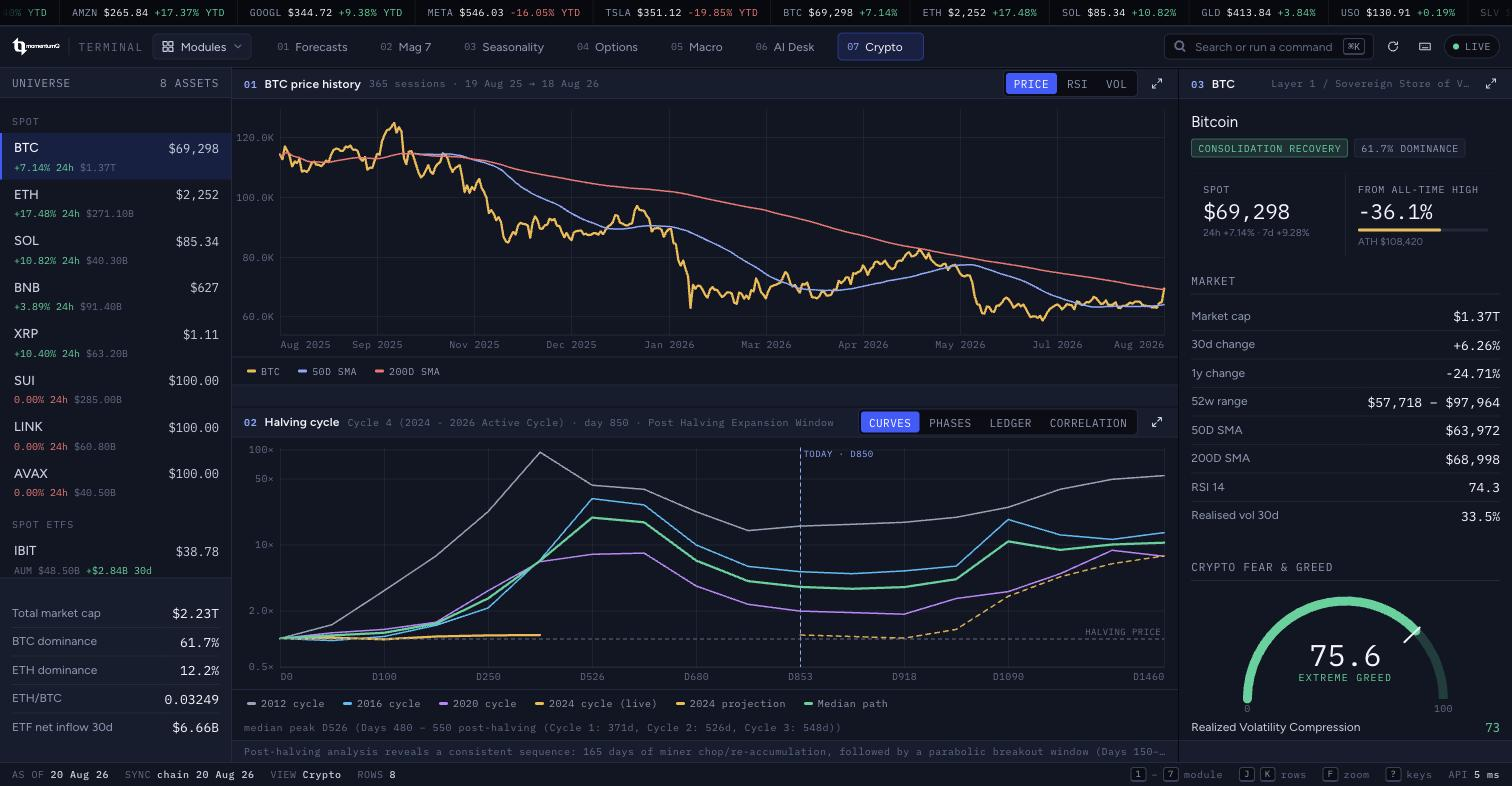
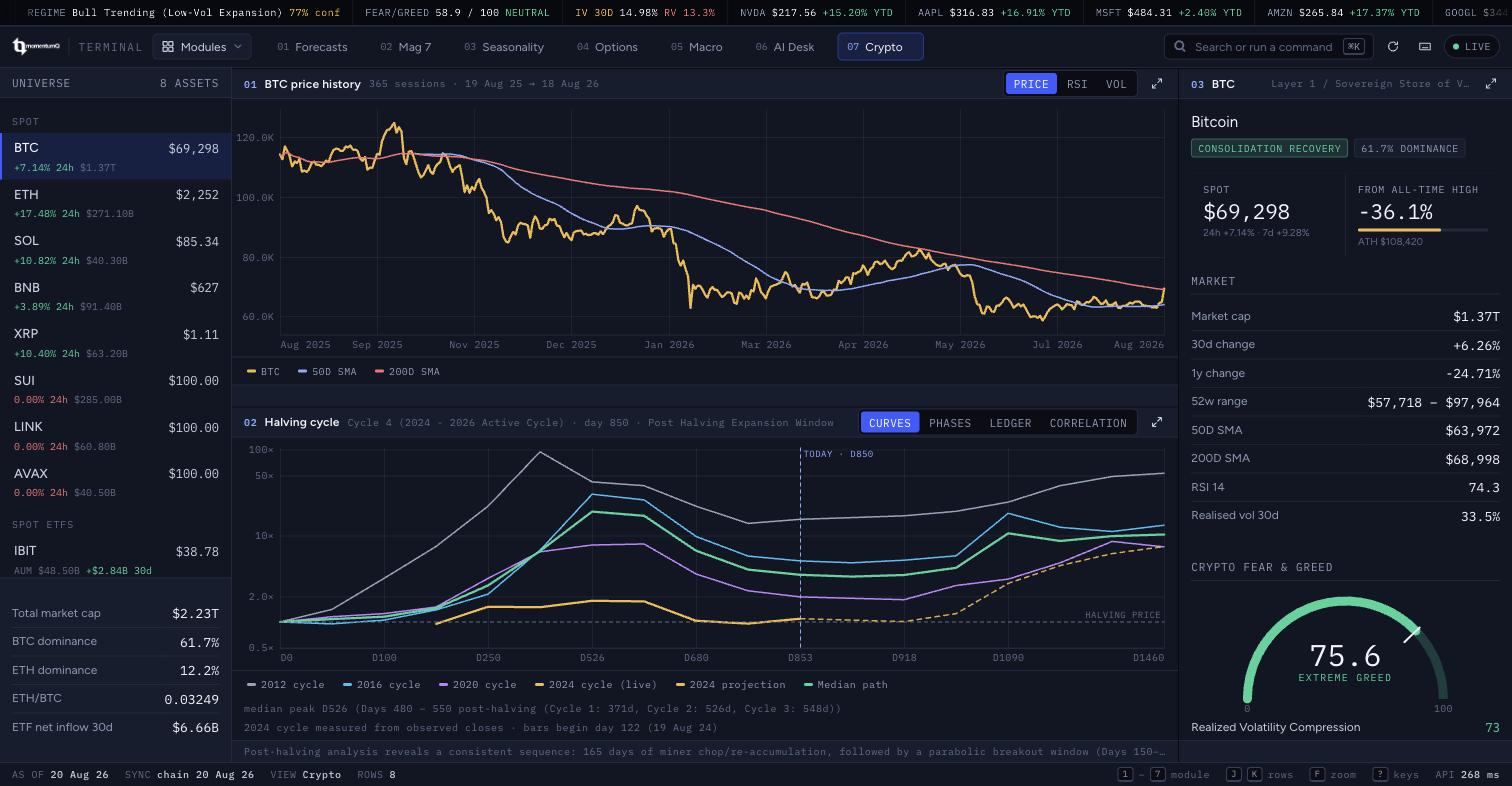
fix(crypto): measure the live halving cycle instead of asserting it
The 2024 cycle curve broke off around day 330 and did not reappear until
today's marker at day 853, leaving a ~500-day hole in the middle of a cycle
that has already happened. The chart was drawing the data faithfully; the data
was wrong.

cycle_curves was a hardcoded literal table. Only the current-position multiple
was computed. For the live cycle it carried values for the first year and
`None` for days 526, 548, 680 and 776 -- all elapsed, all with BTC closes
sitting in price_bar. Worse, the values it did carry were not close:

     day     hardcoded     observed
     165          1.05        0.95x
     250          1.08        1.50x
     371          1.09        1.48x
     526          none        1.76x
     548          none        1.73x
     680          none        1.03x
     776          none        0.96x

So the terminal showed the live cycle flat at roughly the halving price for its
entire first year, when Bitcoin had in fact traded up to 1.76x and back down
again. A reader would have concluded this cycle had gone nowhere.

Cycle 4 is now read off the observed daily closes for every elapsed milestone,
against the 2024-04-19 halving price of $63,800. Cycles 1-3 stay curated: the
2012, 2016 and 2020 halvings predate every bar this database holds, and there
is nothing to measure them from.

Days 50 and 100 remain empty because BTC history begins 2024-08-19, which is
day 122. That gap is real, so the chart states it rather than bridging it: a
[…]

diff --git a/web/app/modules/crypto.js b/web/app/modules/crypto.js
@@ -304,11 +304,20 @@ export async function mount(ctx) {
       label: 'Bitcoin post-halving trajectories, indexed to the halving price',
     });
 
-    fill(cycleLegend, h('div.row', { style: { justifyContent: 'space-between', flexWrap: 'wrap', gap: '8px' } },
-      legend(keys.map((s) => ({ color: s.color, label: s.label }))),
-      h('span.tbar__count', cyc.timing_roadmap
-        ? `median peak D${cyc.timing_roadmap.days_to_peak_median} (${cyc.timing_roadmap.peak_window})`
-        : '')));
+    // Say where the live curve is measured from. A break in it is data the
+    // database does not hold, and the reader should not have to guess that.
+    const prov = cyc.cycle4_provenance;
+    const provNote = prov && isNum(prov.first_measurable_day)
+      ? `2024 cycle measured from observed closes · bars begin day ${prov.first_measurable_day} (${date(prov.first_bar_date)})`
+      : null;
+
+    fill(cycleLegend, h('div.stack', { style: { gap: '4px' } },
+      h('div.row', { style: { justifyContent: 'space-between', flexWrap: 'wrap', gap: '8px' } },
+        legend(keys.map((s) => ({ color: s.color, label: s.label }))),
+        h('span.tbar__count', cyc.timing_roadmap
+          ? `median peak D${cyc.timing_roadmap.days_to_peak_median} (${cyc.timing_roadmap.peak_window})`
+          : '')),
+      provNote ? h('span.tbar__count', { style: { textAlign: 'left' } }, provNote) : null));
     pCycle.setMeta(`${active.cycle_name || 'active cycle'} · day ${int(active.days_post_halving)} · ${titleCase(active.cycle_phase || '')}`);
     pCycle.setFoot(h('span.clamp-2', cyc.structural_takeaway || ''));
   }

diff --git a/src/scorecard/crypto.py b/src/scorecard/crypto.py
@@ -16,7 +16,7 @@ import json
 import logging
 import math
 import sqlite3
-from datetime import datetime, timezone
+from datetime import date as _date, datetime, timedelta as _timedelta, timezone
 from pathlib import Path
 from typing import Any, Dict, List, Optional
 
@@ -709,6 +709,37 @@ def compute_bitcoin_halving_cycles(conn: Optional[sqlite3.Connection] = None) ->
 
     # 7. Multi-Cycle Full 4-Year Trajectory Curves (Day 0 to Day 1,460 - Halving to Halving)
     cur_mult = round(current_btc / 63800.0, 2)
+
+    # ------------------------------------------------------------------
+    # The live cycle is measured, not asserted.
+    #
+    # Cycles 1-3 below are curated history: the 2012, 2016 and 2020 halvings
+    # predate every bar this database holds, so their trajectories can only be
+    # carried as published figures. Cycle 4 is different -- it is happening now,
+    # and its prices are sitting in `price_bar`. Reading them off the tape is
+    # the only defensible way to draw it, and a day with no bar stays empty
+    # rather than being filled in with a plausible-looking number.
+    # ------------------------------------------------------------------
+    HALVING_4_DATE = _date(2024, 4, 19)
+    HALVING_4_PRICE = 63800.0
+    _btc_close_by_date = {b["date"]: float(b["close"]) for b in btc_bars if b.get("close") is not None}
+    # Measurable only as far as the tape runs.
+    _last_bar = _date.fromisoformat(btc_bars[-1]["date"]) if btc_bars else HALVING_4_DATE
+    days_elapsed_c4 = (_last_bar - HALVING_4_DATE).days
+
+    def _cycle4_multiple(day_offset: int) -> Optional[float]:
+        """Observed BTC close on a given day after the 2024 halving, over the halving price."""
+        if day_offset == 0:
+            return 1.0  # identity, not a measurement: the halving close over itself
+        if day_offset > days_elapsed_c4:
+            return None  # the future is not data
+        target = HALVING_4_DATE + _timedelta(days=day_offset)
+        # Walk back a few days: a missing bar should not blank a whole milestone.
+        for back in range(0, 5):
+            close = _btc_close_by_date.get((target - _timedelta(days=back)).isoformat())
+            if close:
+                return round(close / HALVING_4_PRICE, 3)
+        return None
     cycle_curves = [
         {"day": 0, "month": 0.0, "cycle1": 1.0, "cycle2": 1.0, "cycle3": 1.0, "cycle4": 1.0, "cycle4_proj": None, "median": 1.0, "phase": "Halving Day 0 (Month 0.0)"},
         {"day": 50, "month": 1.6, "cycle1": 1.4, "cycle2": 0.95, "cycle3": 1.15, "cycle4": 1.02, "cycle4_proj": None, "median": 1.08, "phase": "Post-Halving Chop (Month 1.6)"},
@@ -729,6 +760,19 @@ def compute_bitcoin_halving_cycles(conn: Optional[sqlite3.Connection] = None) ->
         {"day": 1380, "month": 45.3, "cycle1": 48.5, "cycle2": 11.2, "cycle3": 8.58, "cycle4": None, "cycle4_proj": 6.20, "median": 9.89, "phase": "Pre-Halving Peak Push (Month 45.3)"},
         {"day": 1460, "month": 48.0, "cycle1": 53.06, "cycle2": 13.23, "cycle3": 7.42, "cycle4": None, "cycle4_proj": 7.50, "median": 10.33, "phase": "Next Block Reward Halving (Month 48.0 / April 2028)"},
     ]
+
+    # Overwrite the live cycle with what actually happened. The literals above
+    # are placeholders for shape only; several of them understated the cycle by
+    # a third or more, and four elapsed milestones were left empty despite the
+    # prices being on hand.
+    for _row in cycle_curves:
+        _row["cycle4"] = _cycle4_multiple(_row["day"])
+    # The current-position row is spot, which is fresher than the last close.
+    for _row in cycle_curves:
+        if _row["day"] == 853:
+            _row["cycle4"] = cur_mult
+            _row["cycle4_proj"] = cur_mult
+    cycle4_measured_days = sum(1 for _row in cycle_curves if _row["cycle4"] is not None)
 
     # 8. Full End-to-End Halving-to-Halving Chronological Cycle Flows (with Months)
     full_cycle_flows = [
@@ -814,6 +858,20 @@ def compute_bitcoin_halving_cycles(conn: Optional[sqlite3.Connection] = None) ->
         "phases": phases,
         "timing_roadmap": timing_roadmap,
         "cycle_curves": cycle_curves,
+        # Say where the live curve comes from and where it necessarily stops,
+        # so the UI can label it instead of leaving an unexplained gap.
+        "cycle4_provenance": {
+            "basis": "observed_daily_closes",
+            "halving_date": HALVING_4_DATE.isoformat(),
+            "halving_price": HALVING_4_PRICE,
+            "first_bar_date": btc_bars[0]["date"] if btc_bars else None,
+            "first_measurable_day": (
+                (_date.fromisoformat(btc_bars[0]["date"]) - HALVING_4_DATE).days if btc_bars else None
+            ),
+            "last_measurable_day": days_elapsed_c4,
+            "milestones_measured": cycle4_measured_days,
+            "milestones_elapsed": sum(1 for _r in cycle_curves if _r["day"] <= days_elapsed_c4),
+        },
         "structural_takeaway": "Post-halving analysis reveals a consistent sequence: 165 days of miner chop/re-accumulation, followed by a parabolic breakout window (Days 150–480), peak euphoria (Days 480–550), and bear trough (Days 800–900). When it rises again: Secular pre-halving accumulation consistently ignites ~12 months prior to the next halving (projected Spring 2027).",
     }
 

diff --git a/src/scorecard/api.py b/src/scorecard/api.py
@@ -923,6 +923,11 @@ async def _revalidate_web_assets(request, call_next):
     response = await call_next(request)
     path = request.url.path
     if path.startswith("/api/"):
+        # Market data must never be served from a heuristic cache. With no
+        # Cache-Control at all a browser is free to invent a freshness lifetime
+        # and hand back yesterday's tape; the client keeps its own short-lived
+        # cache, which is the one that should decide.
+        response.headers["Cache-Control"] = "no-store"
         return response
     if path.endswith((".js", ".css", ".html")) or path in ("/", ""):
         response.headers["Cache-Control"] = "no-cache"
